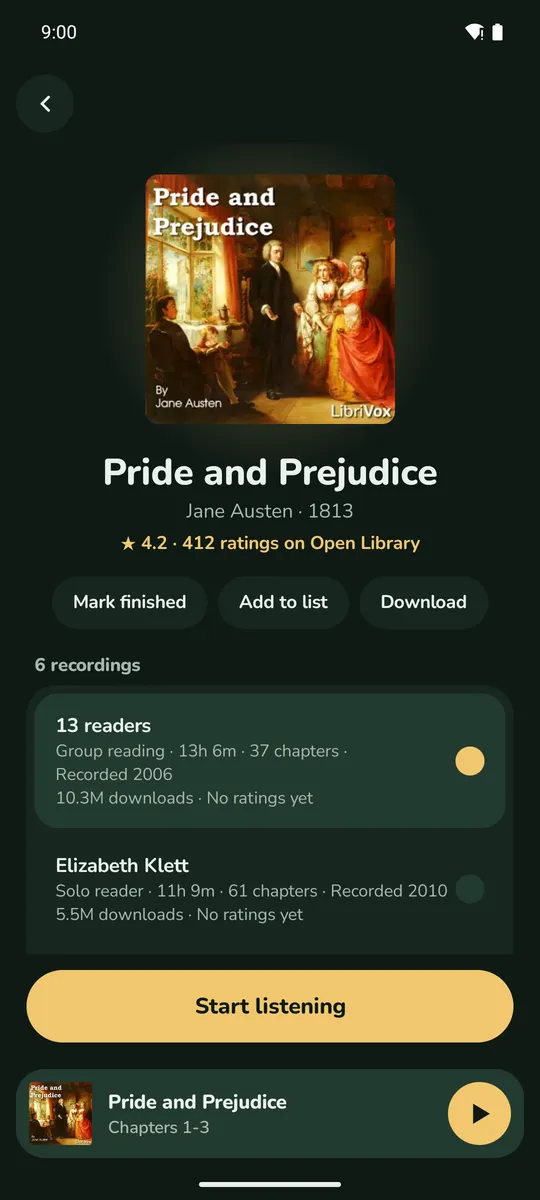
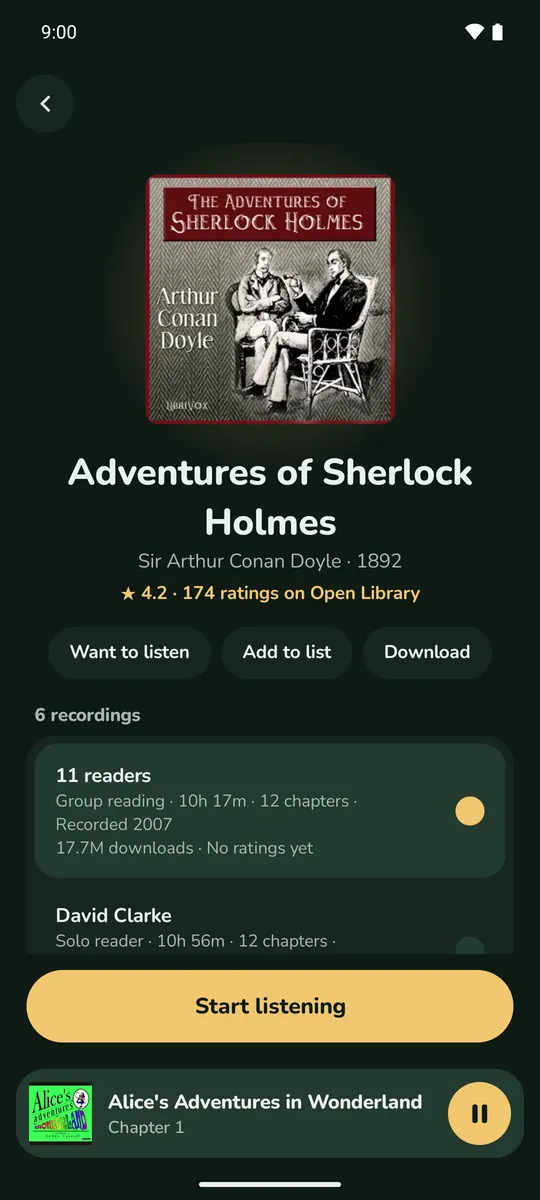
Website: vary the books in the screenshots
Claude-Session: https://claude.ai/code/session_01MwdyDAARrmSJcCme1PD7Vu

diff --git a/site/index.html b/site/index.html
@@ -178,9 +178,9 @@ footer .spacer { flex: 1; }
     </div>
 
     <div class="phones">
-      <div class="phone side"><img src="shots/book.webp" alt="A book page in Voxshelf, showing Pride and Prejudice with its recordings" width="540" height="1200"></div>
+      <div class="phone side"><img src="shots/book.webp" alt="A book page in Voxshelf, showing The Adventures of Sherlock Holmes with its recordings" width="540" height="1200"></div>
       <div class="phone"><img src="shots/browse.webp" alt="The Browse screen in Voxshelf, with rows of popular books and poetry" width="540" height="1200"></div>
-      <div class="phone side"><img src="shots/player.webp" alt="The Voxshelf player, playing Pride and Prejudice" width="540" height="1200"></div>
+      <div class="phone side"><img src="shots/player.webp" alt="The Voxshelf player, playing Alice's Adventures in Wonderland" width="540" height="1200"></div>
     </div>
   </div>
 </header>
